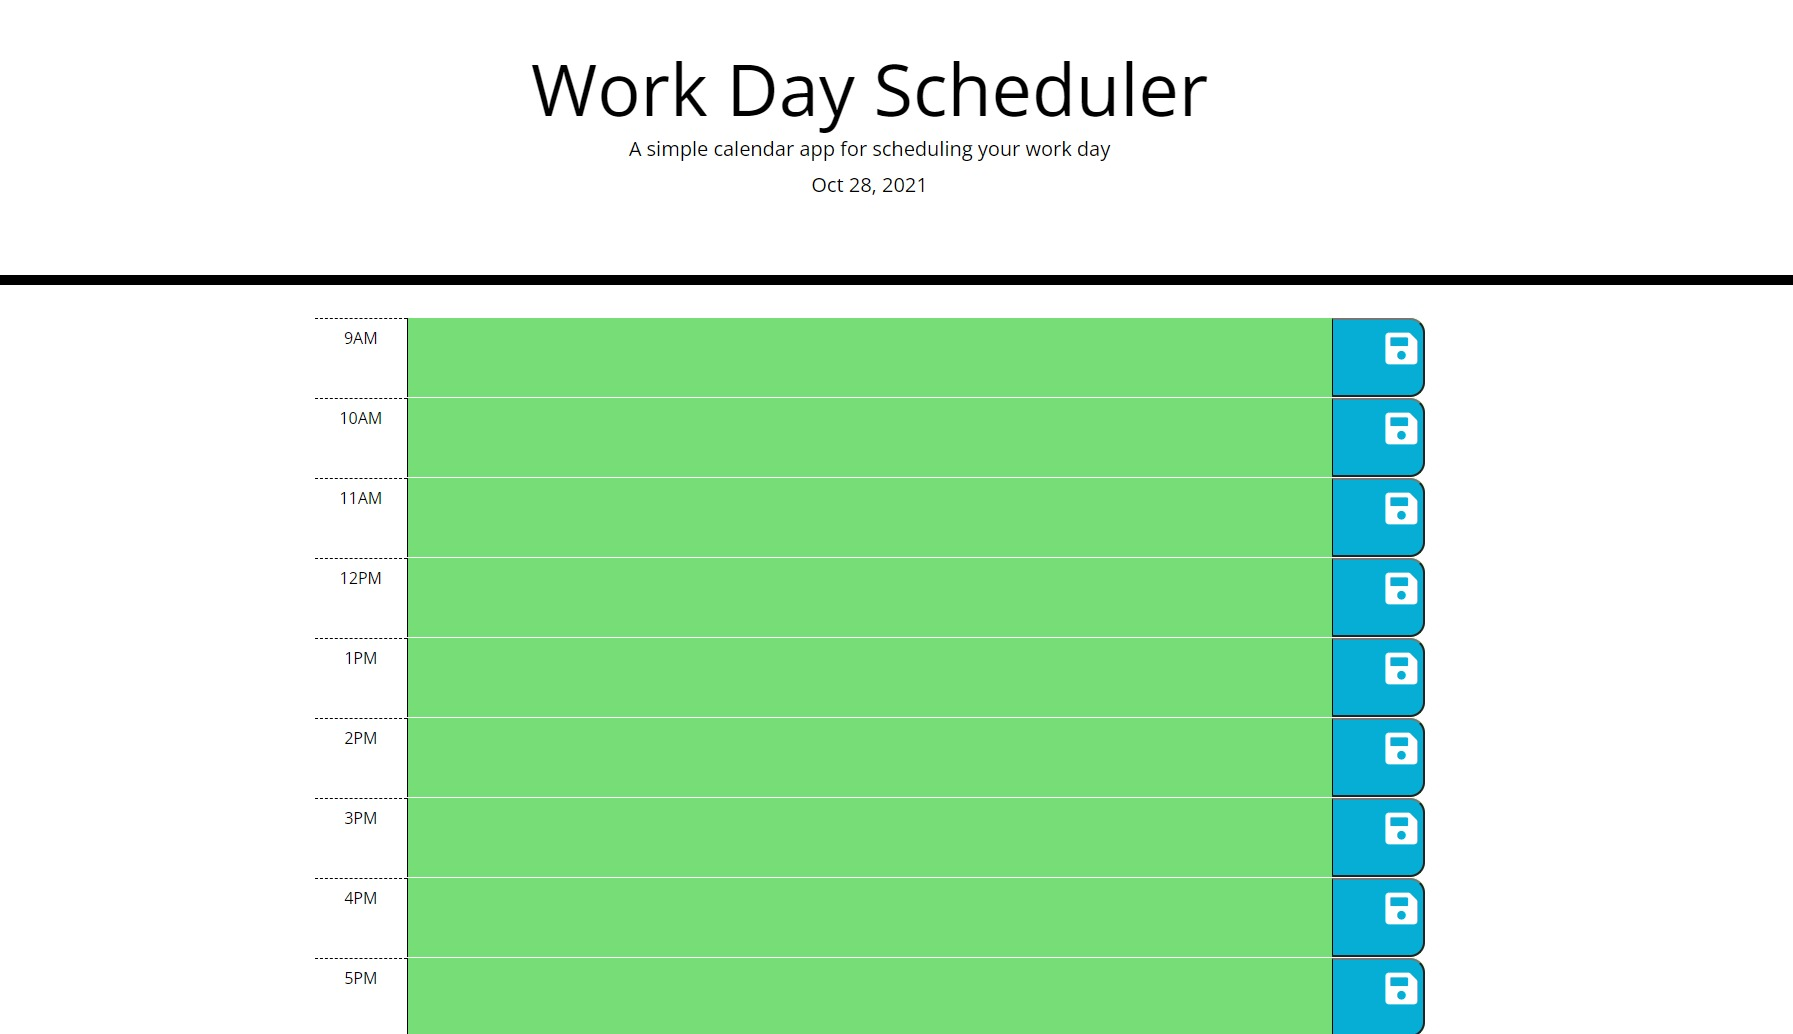
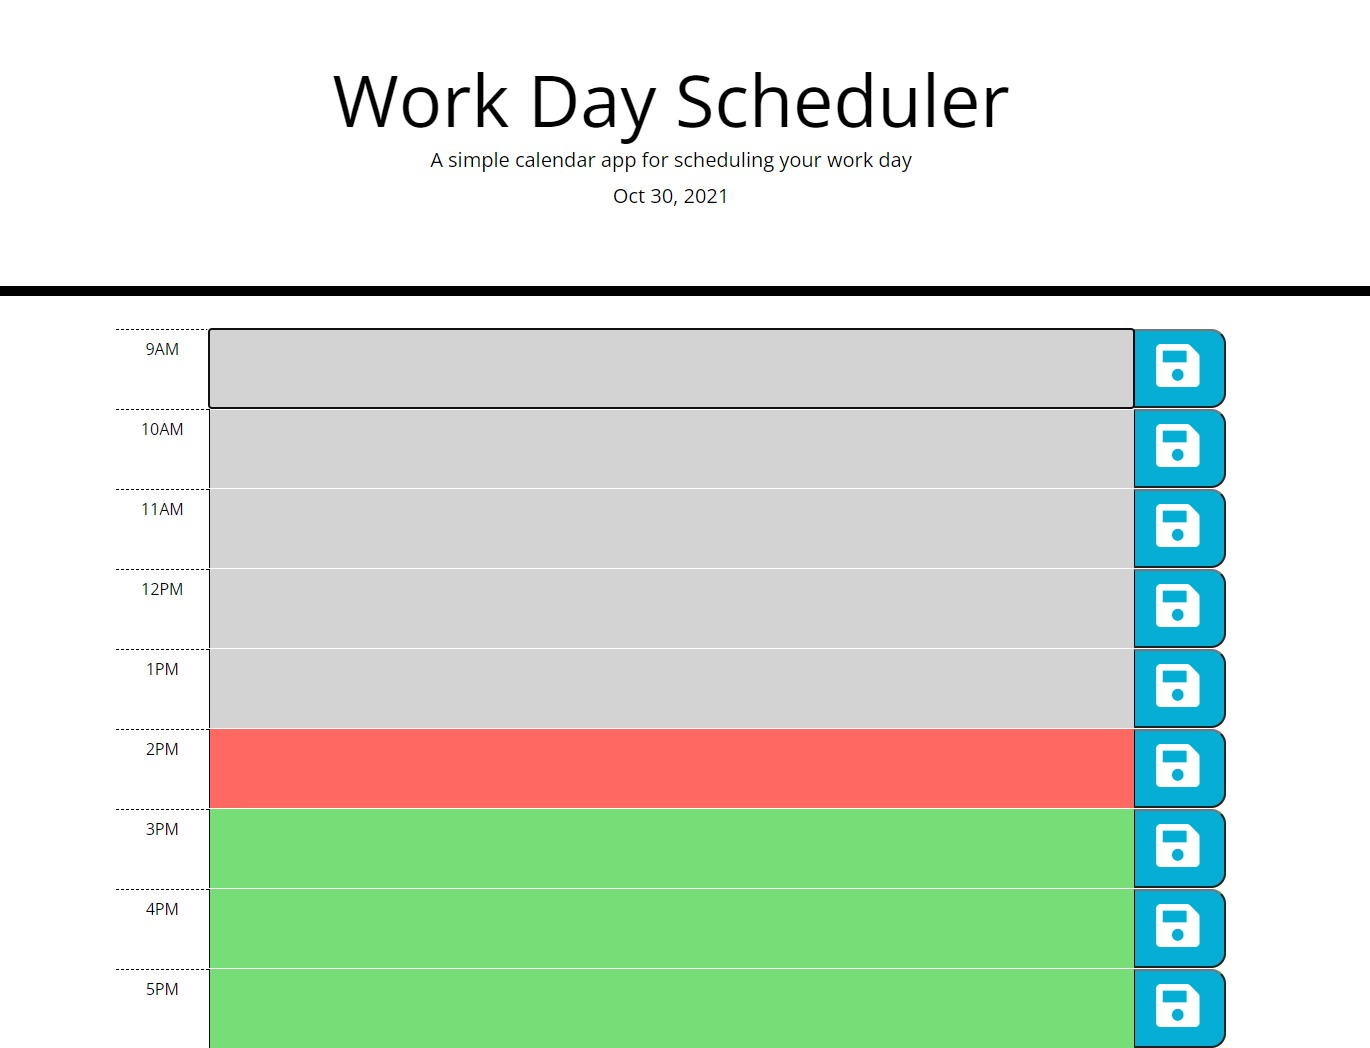
fixed timetracker function

diff --git a/index.html b/index.html
@@ -40,7 +40,7 @@
           <h3  class="col-1 hour">9AM</h3>
           <!-- WHEN I click into a timeblock
               THEN I can enter an event -->
-          <textarea type="text" id="9am" class="col-10 description"></textarea>
+          <textarea type="text" id="9" class="col-10 description"></textarea>
           <button class="col-1 saveBtn">
             <i class="fa fa-save"></i>
           </button>
@@ -48,7 +48,7 @@
 
         <div  class="time-block row">
           <h3 class="col-1 hour">10AM</h3>
-          <textarea type="text" id="10am" class="col-10 description"></textarea>
+          <textarea type="text" id="10" class="col-10 description"></textarea>
           <button class="col-1 saveBtn">
             <i class="fa fa-save"></i>
           </button>
@@ -56,7 +56,7 @@
 
         <div  class="time-block row">
           <h3 class="col-1 hour">11AM</h3>
-          <textarea type="text" id="11am" class="col-10 description"></textarea>
+          <textarea type="text" id="11" class="col-10 description"></textarea>
           <button class="col-1 saveBtn">
             <i class="fa fa-save"></i>
           </button>
@@ -64,7 +64,7 @@
 
         <div  class="time-block row">
           <h3 class="col-1 hour">12PM</h3>
-          <textarea type="text" id="12pm" class="col-10 description"></textarea>
+          <textarea type="text" id="12" class="col-10 description"></textarea>
           <button class="col-1 saveBtn">
             <i class="fa fa-save"></i>
           </button>
@@ -72,7 +72,7 @@
 
         <div  class="time-block row">
           <h3 class="col-1 hour">1PM</h3>
-          <textarea type="text" id="1pm" class="col-10 description"></textarea>
+          <textarea type="text" id="13" class="col-10 description"></textarea>
           <button class="col-1 saveBtn">
             <i class="fa fa-save"></i>
           </button>
@@ -80,7 +80,7 @@
 
         <div  class="time-block row">
           <h3 class="col-1 hour">2PM</h3>
-          <textarea type="text" id="2pm" class="col-10 description"></textarea>
+          <textarea type="text" id="14" class="col-10 description"></textarea>
           <button class="col-1 saveBtn">
             <i class="fa fa-save"></i>
           </button>
@@ -88,7 +88,7 @@
 
         <div  class="time-block row">
           <h3 class="col-1 hour">3PM</h3>
-          <textarea type="text" id="3pm" class="col-10 description"></textarea>
+          <textarea type="text" id="15" class="col-10 description"></textarea>
           <button class="col-1 saveBtn">
             <i class="fa fa-save"></i>
           </button>
@@ -96,7 +96,7 @@
 
         <div  class="time-block row">
           <h3 class="col-1 hour">4PM</h3>
-          <textarea type="text" id="4pm" class="col-10 description"></textarea>
+          <textarea type="text" id="16" class="col-10 description"></textarea>
           <button class="col-1 saveBtn">
             <i class="fa fa-save"></i>
           </button>
@@ -104,7 +104,7 @@
 
         <div  class="time-block row">
           <h3 class="col-1 hour">5PM</h3>
-          <textarea type="text" id="5pm" class="col-10 description"></textarea>
+          <textarea type="text" id="17" class="col-10 description"></textarea>
           <button class="col-1 saveBtn">
             <i class="fa fa-save"></i>
           </button>

diff --git a/assets/js/script.js b/assets/js/script.js
@@ -9,13 +9,13 @@ var calenderInput = localStorage.getItem("dataObject") || "[]";
 var calenderInputArr = JSON.parse(calenderInput);
 
 // loop through each item in the array, grab each item to then display if there is an item
-for (i = 0; i < calenderInputArr.length; i++) {
+for (var i = 0; i < calenderInputArr.length; i++) {
   var timeID = calenderInputArr[i].time
   var valueVal = calenderInputArr[i].value
   $('#' + timeID).val(valueVal);
-  console.log(timeID)
-  console.log(valueVal)
-  console.log($('#' + timeID))
+  // console.log(timeID)
+  // console.log(valueVal)
+  // console.log($('#' + timeID))
 }
 
 // WHEN I open the planner
@@ -32,13 +32,13 @@ displayTime();
 /* 1. create a function that uses momentjs to know what the current time is and then show on the calender if it's in the past, present, or future with the classes in css
 for loop [$("").each(function ()] and if/ else statements in jquery? */
 function timeTracker() {
-  var currentTime = moment().hour();
-
+  var currentTime = moment().hours();
+// console.log(currentTime)
   // loop over each time block to compare to current time
   $(".time-block").each(function () {
     // parsing through each time block to get an integer to compare to the time integer
-    var blockTime = parseInt($(this).siblings(".description").attr("id"));
-    
+    var blockTime = parseInt($(this).children(".description").attr("id"))
+
     // past time
     if (blockTime < currentTime) {
       $(this).removeClass("future");
@@ -67,7 +67,7 @@ saveBtn.on("click", function () {
   var time = $(this).siblings(".description").attr("id")
   var text = $(this).siblings(".description").val()
   calenderInputArr.push({ time: time, value: text })
-  console.log(calenderInputArr)
+  // console.log(calenderInputArr)
   localStorage.setItem("dataObject", JSON.stringify(calenderInputArr))
 })
 // run again
